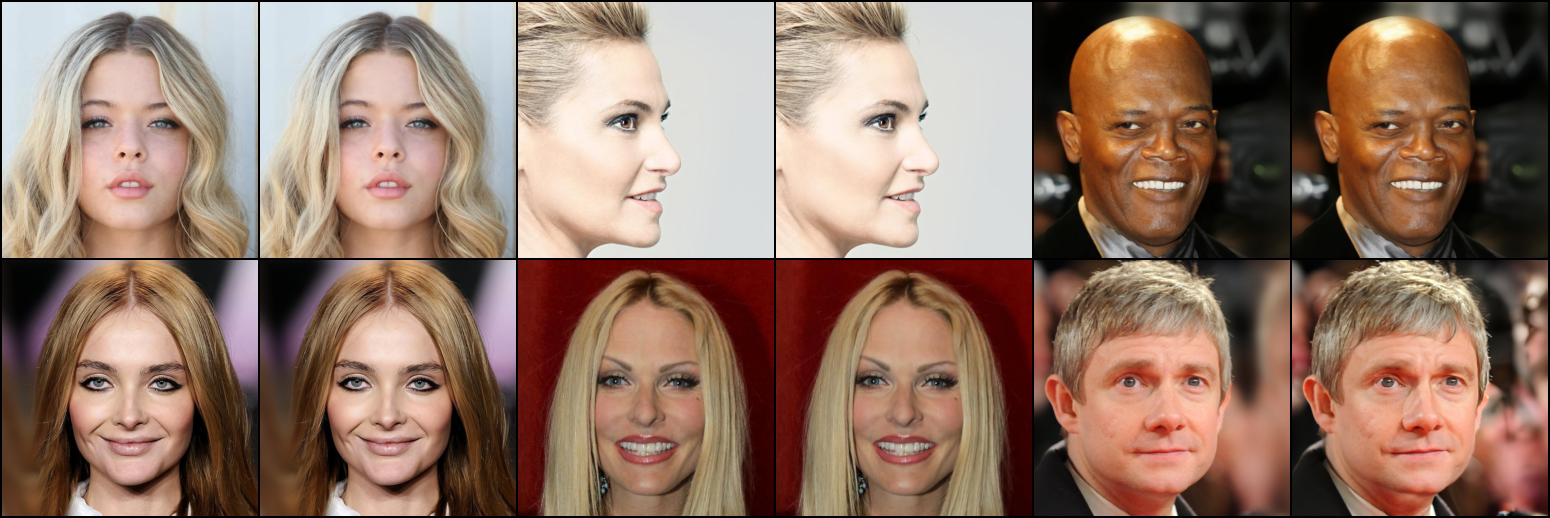
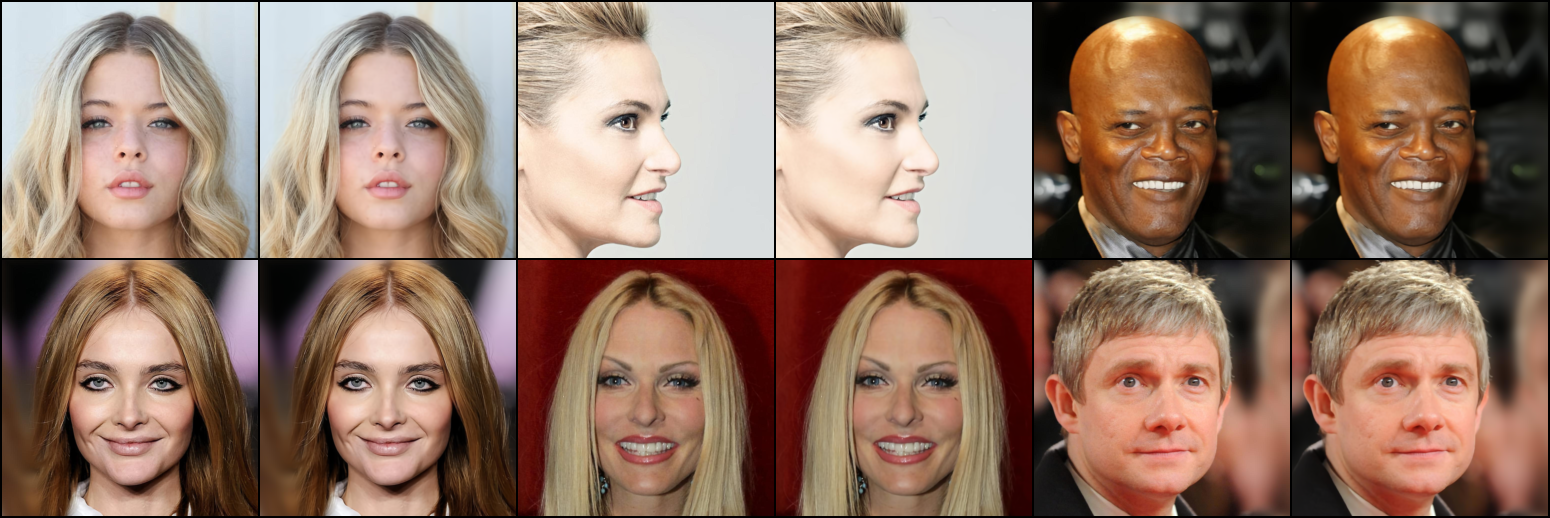
Update celebahq results

Changed region(s): [[0.96, 0.4942, 1.0, 0.8649], [0.96, 0.8958, 1.0, 1.0], [0.8981, 0.9575, 0.929, 0.9884]]

diff --git a/docs/DDPM.md b/docs/DDPM.md
@@ -56,10 +56,6 @@ Sample 10K-50K images following the previous section and evaluate image quality 
 
 ## Results
 
-:warning: Generated CelebA-HQ 256x256 images suffer from severe color shifting problem, and I currently have no clue about it.
-
-
-
 **FID and IS on CIFAR-10 32x32**:
 
 All the metrics are evaluated on 50K samples using [torch-fidelity](https://torch-fidelity.readthedocs.io/en/latest/index.html) library.
